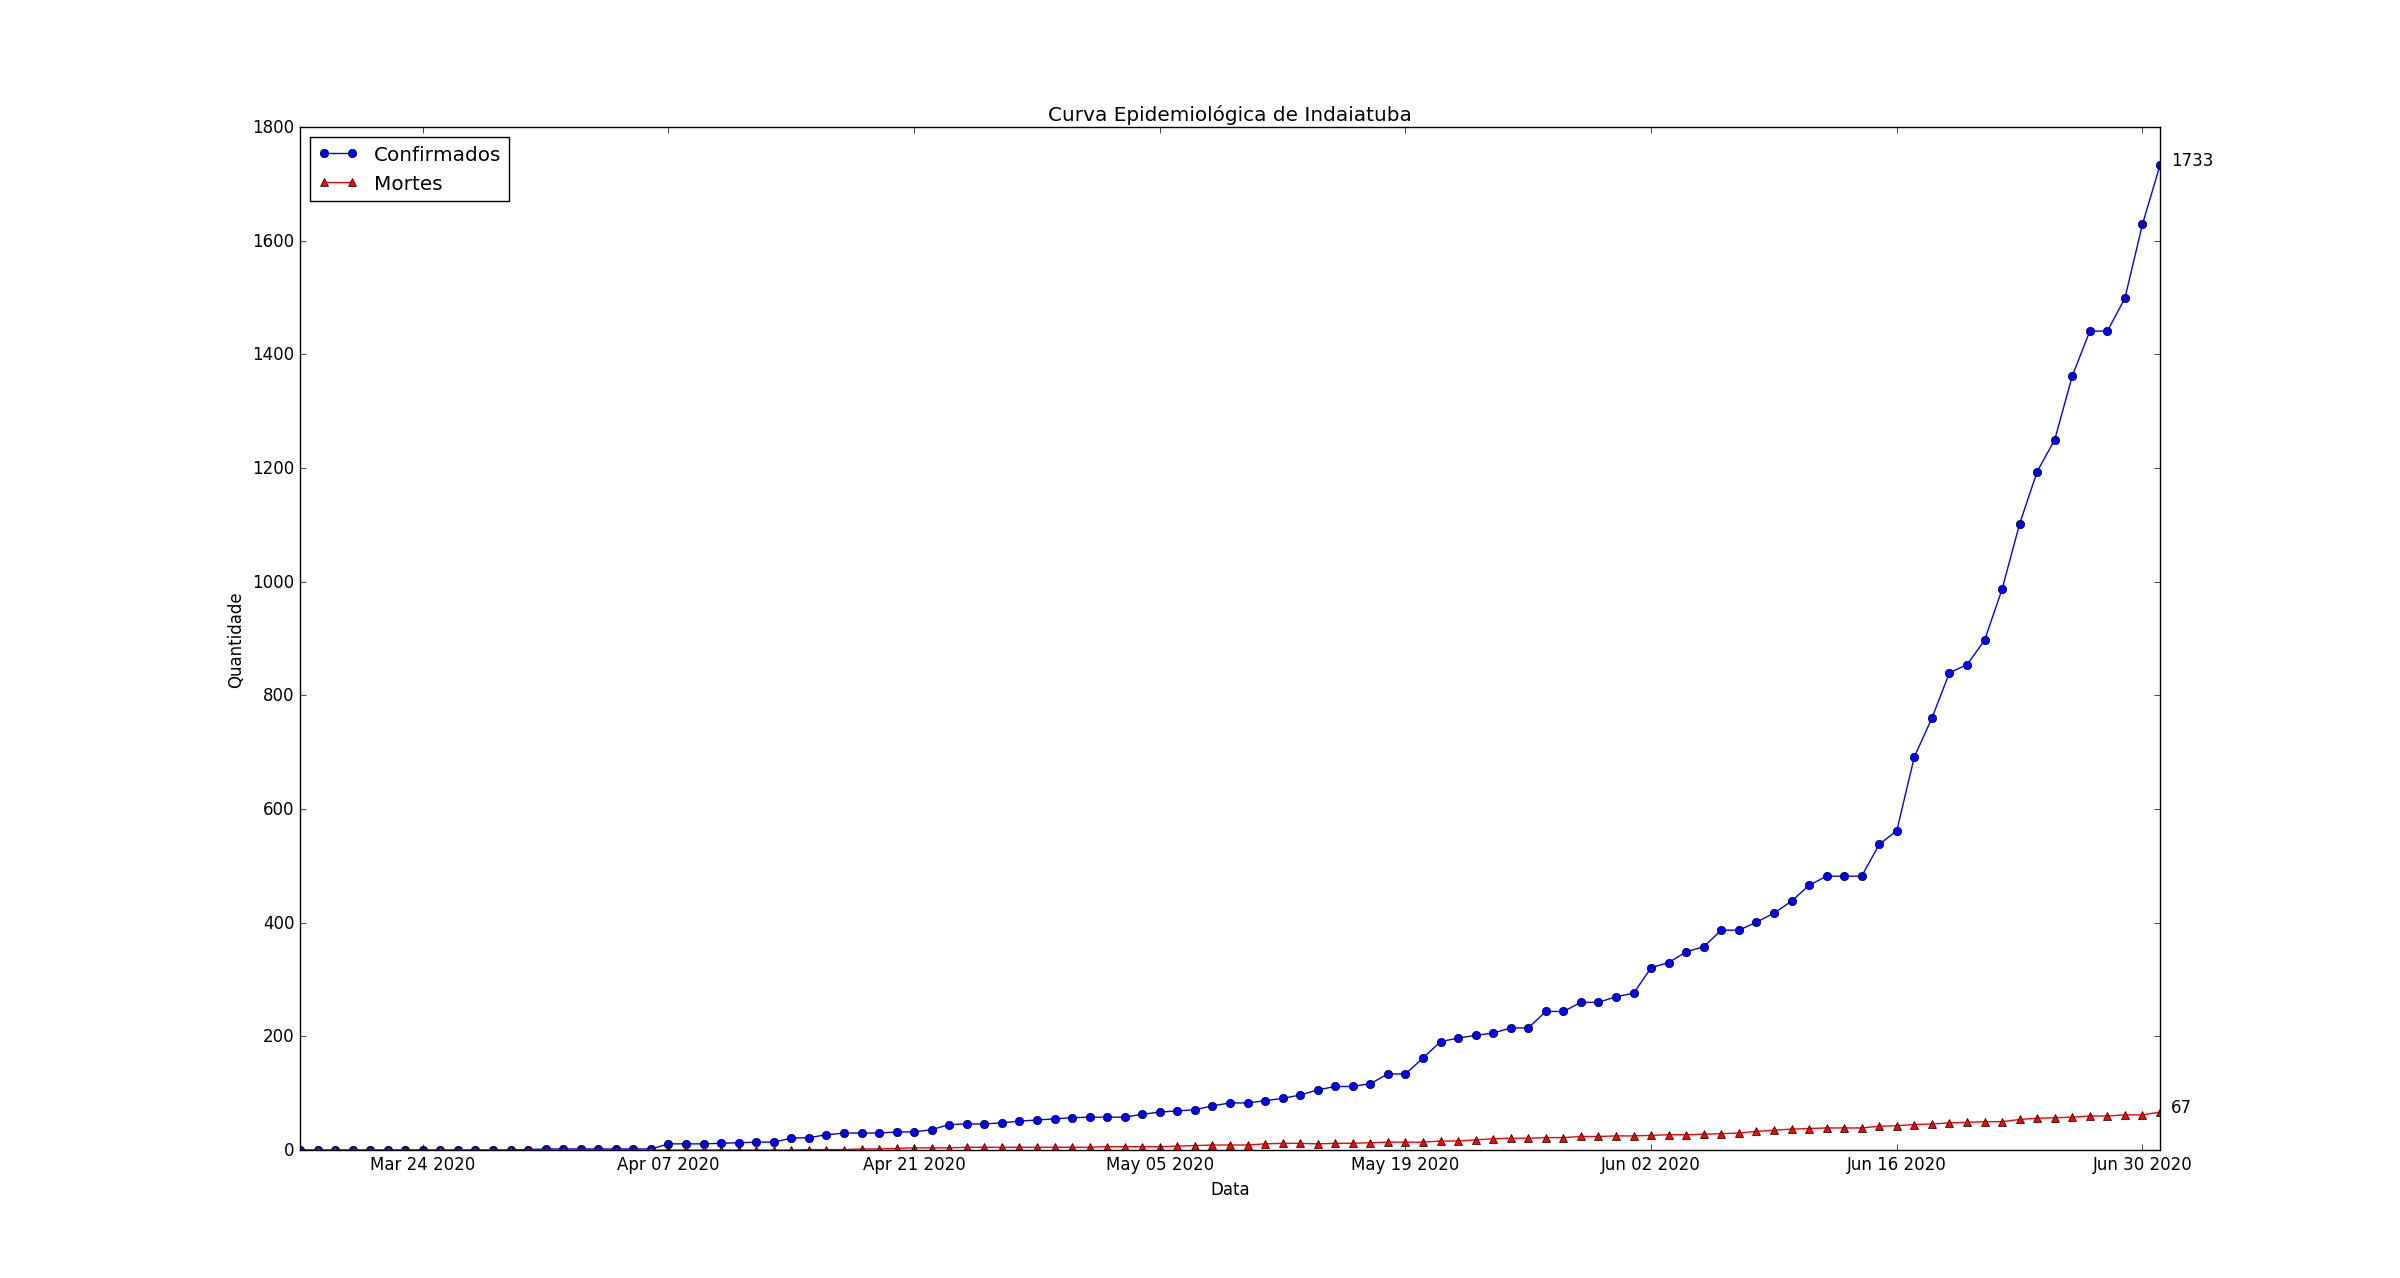
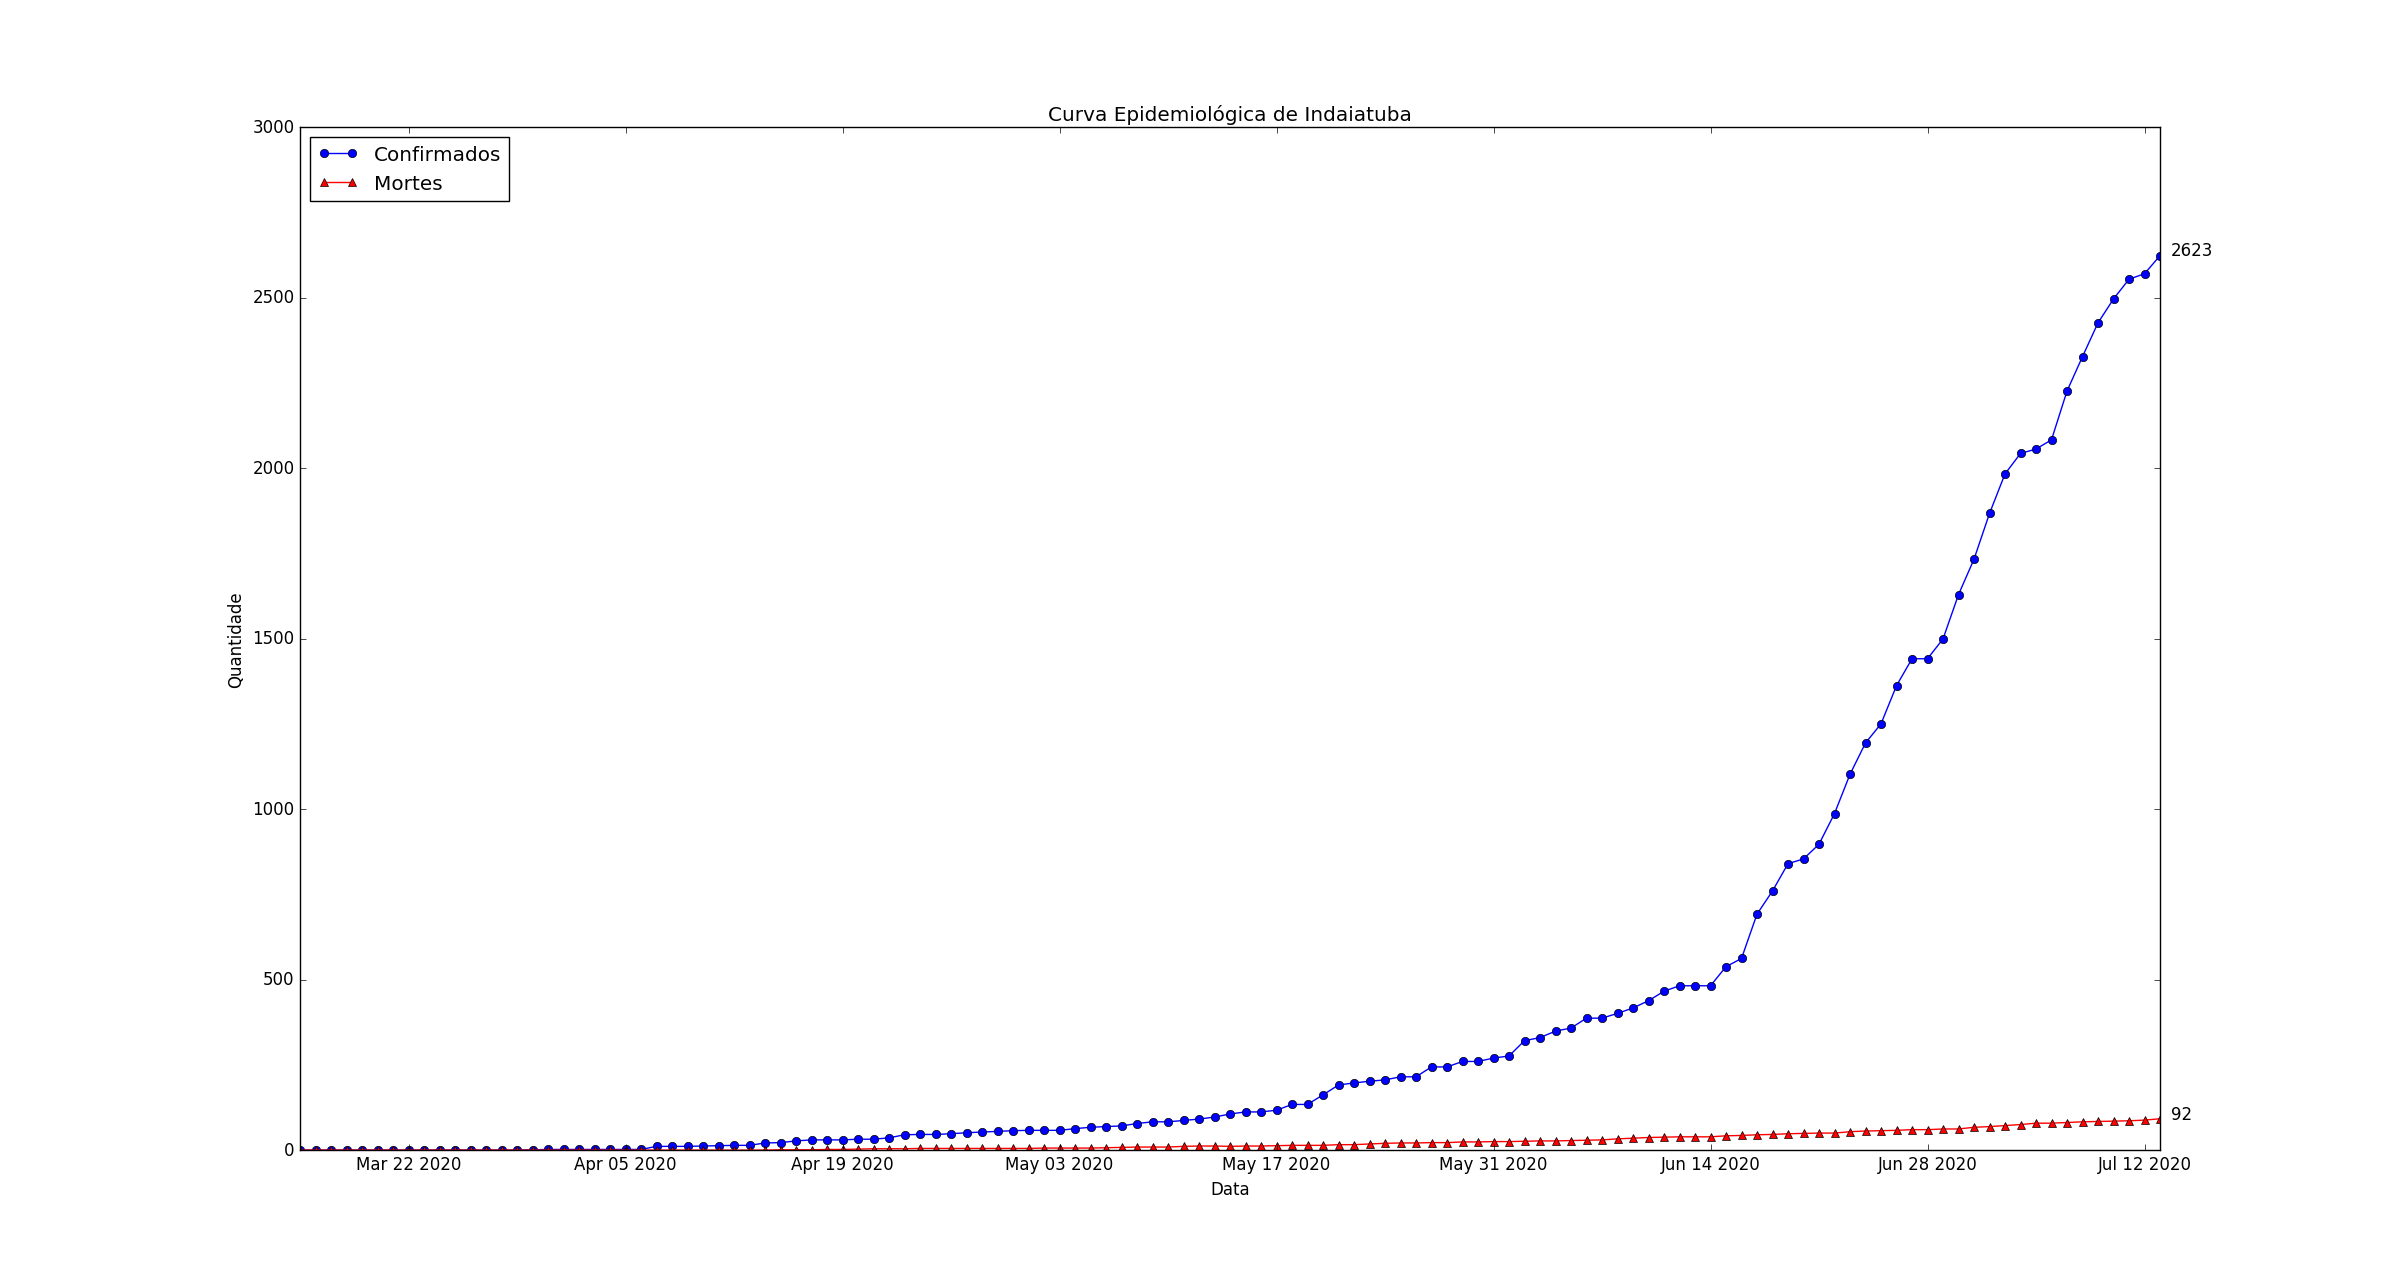
Atualização 2020-07-13

diff --git a/covid-indaiatuba.py b/covid-indaiatuba.py
@@ -10,10 +10,6 @@ with open('./data') as csvfile:
     data        = [] 
     confirmados = []
     mortes      = []
-    uti_haoc    = []
-    enf_haoc    = []
-    uti_hsi     = []
-    enf_hsi     = []
 
     reader = csv.reader(csvfile, delimiter=',')
     next(reader)
@@ -21,10 +17,6 @@ with open('./data') as csvfile:
         data.append( datetime.datetime.strptime(row[0], '%Y-%m-%d').date())
         confirmados.append(row[1])
         mortes.append(row[2])
-        uti_haoc.append(row[3])
-        enf_haoc.append(row[4])
-        uti_hsi.append(row[5])
-        enf_hsi.append(row[6])
 
 
 plt.title("Curva Epidemiológica de Indaiatuba") 

diff --git a/README.md b/README.md
@@ -6,12 +6,16 @@ Dados da Epidemia de Covid em Indaiatuba
 
 A partir dos dados disponibilizados pela prefeitura municipal de Indaiatuba, trouxe esse projeto para uma melhor visualização, visto que gráficos são mais fáceis de interpretar do que números.
 
-## Grafico
+## Gráfico
 
-Data da atualização: 01/07/2020
+Data da atualização: 13/07/2020
 
-
+No gráfico abaixo, temos o total de casos:
 ![Covid em Indaiatuba](figura.png)
+
+
+No gráfico abaixo temos o número de infectados por semana.
+![Covid Por Semana Indaiatuba](figura_sem.png)
 
 ## Autor
 
